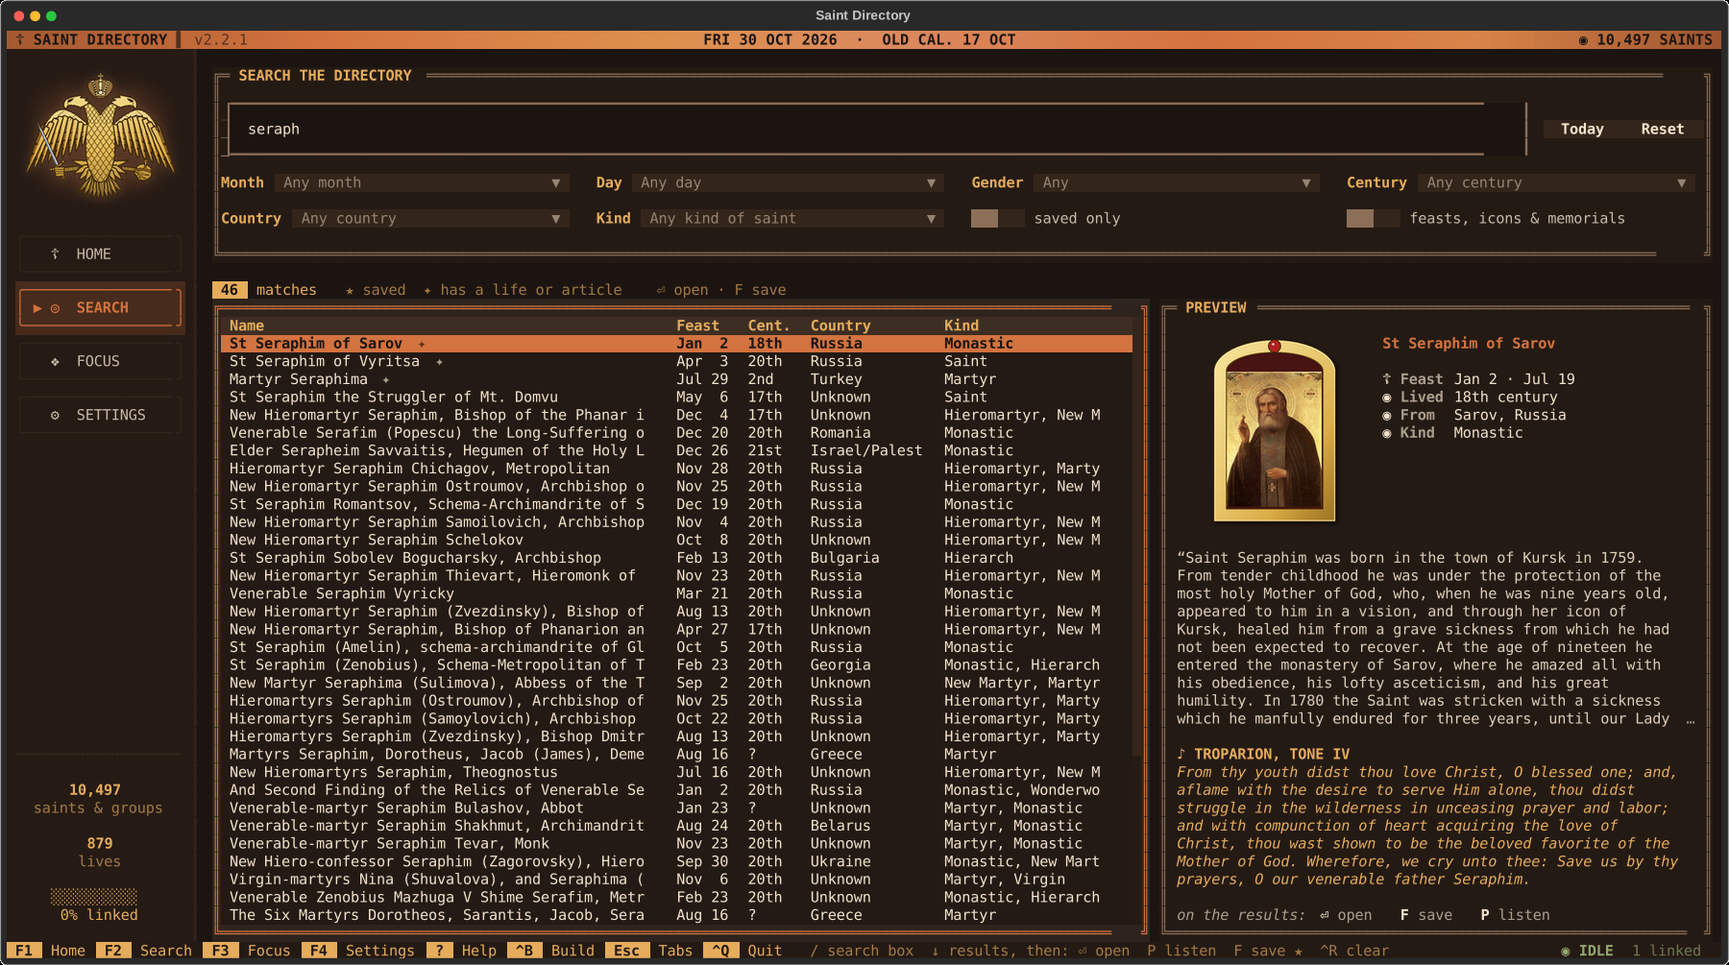
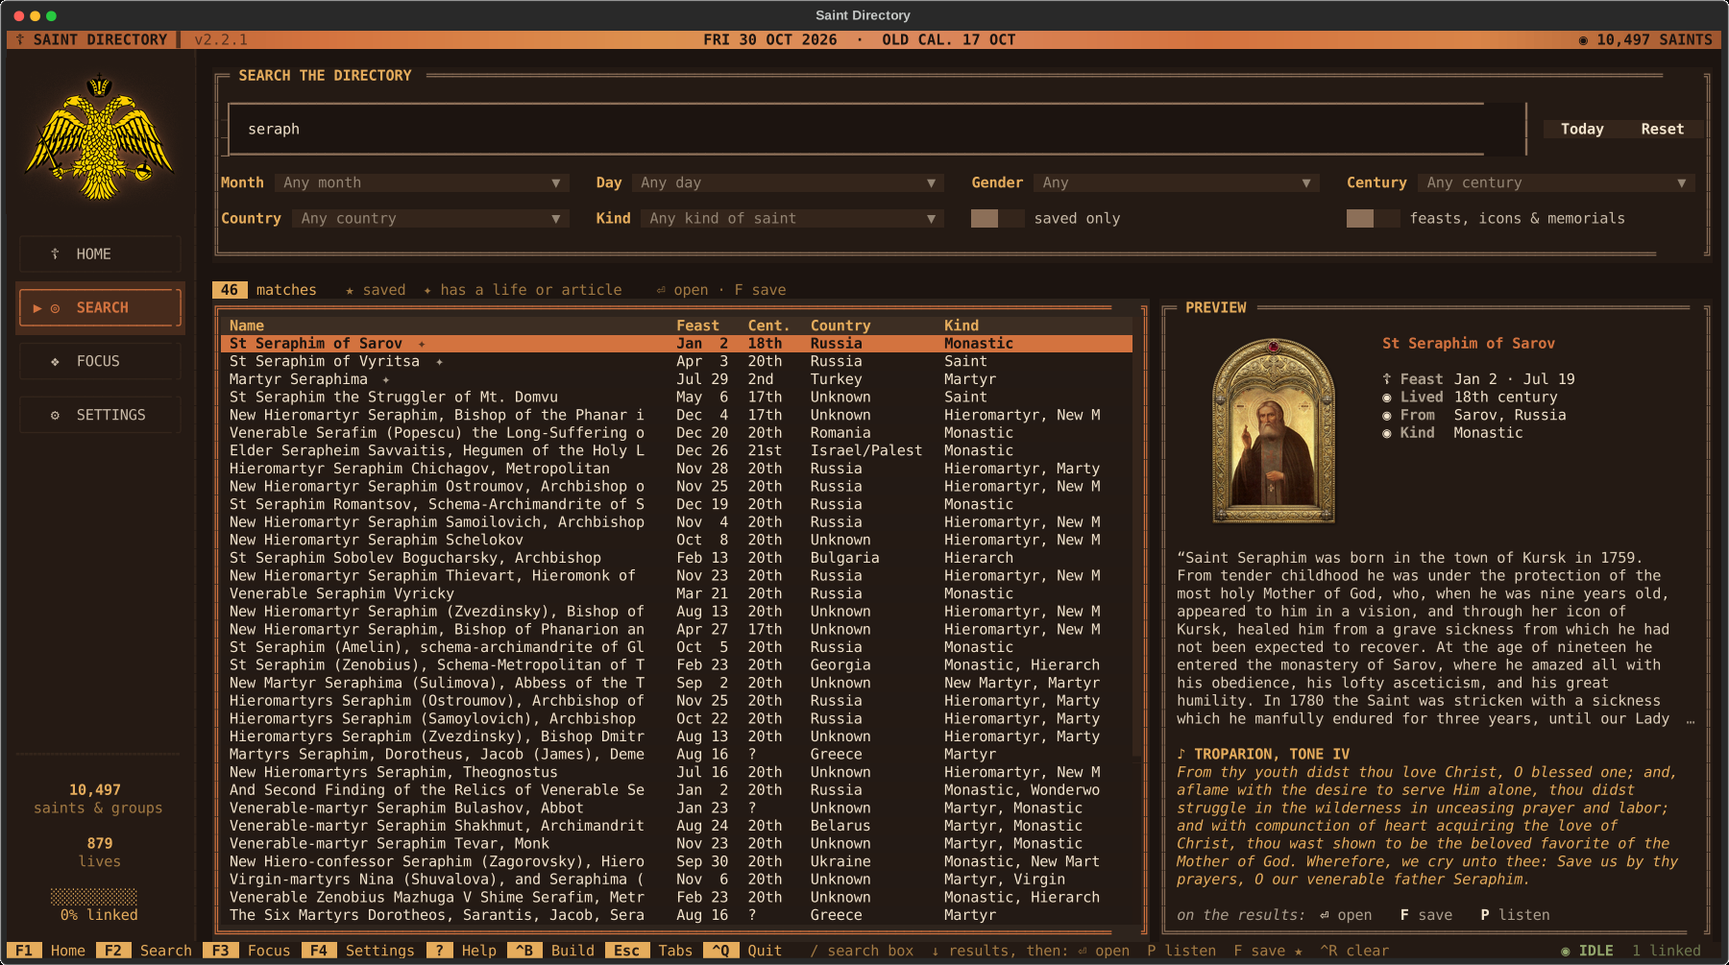
README for 2.3.1
- One "What's new" section for 2.3.1 (the eagle of the Church of Greece,
  the light behind it, the photographed kiot); the older ones are removed.
- What they described and is still true moved into the main sections:
  terminal detection, the typikon signs and vestment colour on Home, search
  in any alphabet, the Help glossary, the reading bar, merged duplicates.
- The Search, Reading aloud, Settings and colour-scheme screenshots show
  the new eagle and kiot.

Changed region(s): [[0.6844, 0.3393, 0.7778, 0.5552], [0.0, 0.0617, 0.1244, 0.2159]]

diff --git a/README.md b/README.md
@@ -7,7 +7,9 @@ like a page of the Synaxarion: the saint's **icon**, the **Life**, the **tropari
 from Wikipedia or OrthodoxWiki, feast days on the New and Old Calendars, and the saints who share them — and it can
 **read it all to you aloud**. Home is a full-screen **Church calendar dashboard**: the typikon sign of every day, the
 day's fast and readings with the Gospel's text, the saints, a saint of the day, and the feasts and fasts ahead.
-Everything is in English — Russian-calendar entries and non-English articles are translated.
+Everything is in English — Russian-calendar entries and non-English articles are translated. In terminals that show
+true images (Kitty, Ghostty and Sixel terminals) the icons stand in a gilded kiot and the double-headed eagle of the
+Church of Greece heads the tab column.
 
 ```
 F1 Home  F2 Search  F3 Focus  F4 Settings  P listen  ? Help  / search box  Esc tab column  ^B build  ^Q quit
@@ -27,129 +29,22 @@ All twelve colour schemes: [docs/themes.png](docs/themes.png)
 
 ## What's new in 2.3.1
 
-- **The eagle of the Church of Greece, as it is.** The eagle at the head of the tab column is now the eagle of the flag
-  of the Church of Greece itself (black lines on the flag's yellow, the crown above the two heads, the sword and the
-  orb), with only the flag's ground taken away, in place of the eagle drawn for 2.3. The light behind it is as in
-  2.3: it hugs the eagle's outline and breaks out between the wings, the heads and the crown when you switch tabs.
+- **The eagle of the Church of Greece.** In Kitty and Ghostty (and Sixel terminals) the double-headed eagle at the
+  head of the tab column is now the eagle of the flag of the Church of Greece, as it is drawn there: black lines on
+  the flag's yellow, the closed crown above the two heads, the **sword** in its right claw and the **orb with the
+  cross** in its left. Only the flag's ground is taken away.
+- **Truer light behind it.** When you switch tabs the light behind the eagle swells and fades like a flare. It comes
+  from behind the eagle, as from a lamp hung behind a carving: brightest right at its outline and falling away with
+  the distance, with shafts of light breaking out between the wings, the heads and the crown. It swells fast, fades
+  fast and then slowly, in sixteen steps; on the light scheme (Theophany) it is a tint of the scheme's colour.
   ![The pulse](docs/pulse.png)
-- **The kiot, as photographed.** Icons now stand in a photograph of a gilded kiot (the round arch with its vine and
-  beads, the three-bar cross under it, the ruby at the top and the silver rosettes) in place of the frame drawn for
-  2.3. For an icon of another shape only the straight part of the sides is made longer or shorter, so the arch, the
-  cross and the corners are never distorted; the icon fills the opening, and the frame casts its shadow on it. A
-  saint without a picture gets the painted icon blank in the same frame.
-
-## What's new in 2.3
-
-- **The double-headed eagle, redrawn.** The eagle at the head of the tab column now follows the eagle of the Church
-  of Greece closely: the closed imperial crown floating between the heads, with its dark lobes, pearled arches and
-  cross; the heads turned outward, with hooked beaks, a stern eye under a heavy brow and a crest swept back; scaled
-  necks and breast; the wings raised from the shoulders, a band of small coverts along the leading edge and long
-  flight feathers, shadowed and notched, sweeping down to the lower corners; skirts of pointed thigh feathers over
-  ringed legs, the **sword** in its right claw and the **orb with the cross** in its left; the tail spread in a fan.
-  It is cast in relief now, every feather and scale raised and catching the light from the upper left, in a richer
-  gold.
-- **Truer light behind it.** The light comes from behind the eagle, as from a lamp hung behind a carving: brightest
-  right at its outline and falling away with the distance, with shafts of light breaking out between the wings, the
-  heads and the crown, and a gleam along the eagle's edges at the height of a pulse. A pulse swells quickly and fades
-  the way a flare does, fast at first and then slowly, in sixteen steps instead of ten. On the light scheme
-  (Theophany) the light is a tint of the scheme's colour.
-- **A new frame for the icons.** Icons now stand in a gilded **kiot** cast in relief: a round arch over straight
-  sides; all round, a rounded rim, rows of beads and a band of running vine with its leaves, flowers and tendrils;
-  under the arch, the **three-bar cross** on a plate with trefoil ends between scrolls of vine; the head of the
-  opening cut in two arches that meet in a point under the cross; a **cabochon ruby** in a beaded, pierced setting at
-  the top; and **silver rosettes** where the arch springs from the sides and at the lower corners. The frame is made
-  to the shape of each icon (over a wide icon the arch is lowered), the icon fills the opening, and the frame casts
-  its shadow on it. A saint without a picture gets the painted icon blank in the same frame.
-
-## What's new in 2.2.1
-
-- The glow behind the double-headed eagle now pulses **only when you switch tabs** — Home, Search, Focus or
-  Settings, whether by F1–F4, the tab column, a click on a tab, **/**, or opening a saint (which takes you to
-  Focus) — and no longer at every choice you make in a page.
-
-## What's new in 2.2
-
-- **The double-headed eagle.** In Kitty and Ghostty (and Sixel terminals) a gilded **Byzantine double-headed eagle**
-  in the tradition of the Greek Orthodox Church now heads the tab column, drawn after the eagle of the Church of
-  Greece and Mount Athos: two heads turned outward with hooked beaks, the imperial crown floating above them, wings
-  arched at the shoulders with long feathers sweeping down, scaled neck and breast, the **sword** in its right claw
-  and the **orb with the cross** in its left. It is painted for the size of your window — larger on tall terminals.
-- **The light behind it pulses** when you switch tabs: the glow behind the eagle swells into an aureole of rays and
-  fades back. Every step of the light is sent to the terminal once, so the pulse costs nothing while you work.
-- **The three-bar cross found its place** above the prayers: it heads the column of hymns in Focus and the
-  troparion and kontakion in the icon view (**V**), like the headpiece of a page in a service book.
-- **Every control checked again** against what the screen says about it (the Help, the key lines, the buttons,
-  the dialogs), with new tests for the reading bar's buttons, the voice dialog, the icon view, the Scripture window
-  and the Settings voice buttons. Fixed along the way:
-  - "Lived 7th century · 7th century": when a source gives a date only as a century it is no longer repeated
-    ("born in the 7th century"), and it is read aloud as a sentence ("Died in the 7th century").
-  - The Focus welcome now lists **V** (the icon view); under the day's readings Home says "S opens them" (not
-    "S reads them", which sounded like reading aloud); the voice dialog and messages name the Settings panel by
-    its real title.
-  - Choosing a Piper voice to download could be undone by the voice scan finishing a moment later.
-  - A message from a background download arriving while saintd was closing could end it with an error.
-  - Opening Settings for the first time no longer re-applies its values: it could switch the pictures mode, show a
-    needless "Sixel needs a restart" note, or round a timeout or reading speed set in the settings file.
-  - Clicking **Contents** twice left the cursor on the button, so the arrow and page keys stopped scrolling.
-  - The saint of the day's **Listen** button now says **Pause** and **Resume** while it reads, like Focus's.
-  - The Search help and key lines say that **F** and **P** work on the results (in the search box they are
-    letters); "(press S for the text)" is no longer shown when the calendar has no text for a reading; the
-    "Clear article cache" button, which also clears the download cache, is now called **Clear caches**.
-
-## What was new in 2.1
-
-- **Reading aloud.** Press **P** and the saint's life, hymns and history are read to you, the paragraph being read
-  highlighted and kept in view. On Home, **P** reads the whole day: its feasts and fast, the saints, the saint of the
-  day and the Epistle and Gospel. **P** pauses and resumes, **X** stops, **,** and **.** skip back and forward a
-  paragraph, **+** and **-** change the speed; a bar above the status line shows what is read, how far, the voice
-  and the speed, with buttons for the mouse. Six engines: **Piper** (natural neural voices, offline — offered the
-  first time you listen), RHVoice, SVOX Pico, eSpeak NG, Speech Dispatcher and Festival. Choose the engine, the
-  voice and the speed in **Settings → Voice & Reading aloud**, download Piper voices there, or hear a test.
-- **Every screen fills the window.** Home is a three-column dashboard on big terminals: the calendar and the days
-  ahead (the coming week and the next feasts and fasts, with Pascha worked out locally); the day's saints as a table
-  with century and place; and the saint of the day — icon, facts, life and troparion — above the Gospel and Epistle
-  in full. Focus keeps the facts in the header card and puts the hymns, feast days, the saints who share them and the
-  sources in a column beside the life. Search shows a **preview** of the highlighted saint beside the results.
-  Settings is laid out in two columns.
-- **Made for Kitty and Ghostty.** Icons stand in a **gilded, arched frame** with a velvet arch and a jewel, like an
-  icon case; a saint without a picture gets a **painted icon blank** — gold leaf, a halo with the initial and the
-  name inscribed. A gilded **Orthodox cross** headed the tab column (since 2.2, the double-headed eagle), the title
-  bar is a band of burnished gold, and **V** opens the **icon view**: the icon as large as the window allows, with
-  the troparion and kontakion beside it.
-- **Five new colour schemes**: Paschal Night, Mount Athos, Blue Domes, Theophany (a light scheme) and
-  **Liturgical Colours**, which follows the Church year like the vestments do — gold on ordinary days, blue for the
-  Theotokos, purple for the Cross and Lent, black in Holy Week, red for Pascha and the martyrs, green for Pentecost,
-  white for the Nativity, Theophany and the Transfiguration. Home shows the day's colour too.
-- **Fixed:** resizing or maximising the window after saintd started kept the small-terminal layout (an icon-only
-  tab column, the narrow Home); the layout now follows the window at once.
-
-## What was new in 2.0
-
-- **Icons of the saints**, drawn as real pictures in **Kitty** and **Ghostty** (Kitty graphics protocol), in
-  **WezTerm, foot, Konsole** and other **Sixel** terminals, and as colour mosaics everywhere else.
-- **Knows its terminal.** saintd recognises the terminal *and its version* — from the environment and by asking the
-  terminal itself (XTVERSION, the Kitty graphics query, cell size and device attributes) — and picks the best
-  pictures it can really show: Kitty images need kitty 0.28+ or Ghostty 1.0+, Konsole's Sixel needs 22.04+, and inside
-  tmux or screen it falls back to colour blocks. `saintd --terminal` shows what it found.
-- **The Church calendar on Home**: a month view with the typikon sign of each day (⊕ great feast, ✠ vigil,
-  ✚ polyeleos, ≈ doxology, ∽ six stichera, • fast day), the day's tone, fast, feasts and Scripture readings —
-  press **S** to read the Epistle and Gospel themselves.
-- **Hymns**: the troparion and kontakion of the saint, with their tone.
-- **New sources**: the Orthodox Calendar of Holy Trinity Russian Orthodox Church (English lives by Fr. S. Janos, and
-  the hymns), **OrthodoxWiki** (history when Wikipedia has none) and **Wikimedia Commons** / Azbuka Very icons.
-- **Focus** has a header card with the icon and the essentials, **[ ]** steps through the list you came from, and
-  saints under *Also Commemorated* open with a click.
-- **Saved saints ★** — press **F** on a saint on Home, in Search or in Focus; Search can show only your saved
-  saints.
-- **A cleaner directory**: a saint kept by several calendars on the same day under different titles ("Martyr",
-  "Virgin-martyr", "Venerable-martyr Anastasia the Roman") becomes one entry, and Russian-calendar names read as
-  English ("Matrona of Thessalonica", "Xenia (Eusebia) of Mylasa", "Olga (Helen)").
-- **Search in any alphabet**: *Серафим* or *Σεραφείμ* finds St Seraphim; the wheel and **[ ]** in Focus go
-  through all the results, not only the first 200.
-- **Help** (**?**) with every key and a glossary of Orthodox terms (hieromartyr, troparion, typikon…) — [screenshot](docs/help.png).
-- **Faster and smoother**: about twice as fast to start, pages built when first needed (or while you are idle), the
-  calendar moves instantly while the day's details follow, and every source is read in parallel.
-- Every letter key works in either case, and Ctrl keys with or without Shift.
+- **A gilded kiot for the icons.** Icons now stand in a photographed gilded **kiot**, the case an icon stands in: a
+  round arch with its running vine and rows of beads, the **three-bar cross** under the arch, the head of the opening
+  cut in two arches that meet in a point under the cross, a **ruby** at the top and **silver rosettes** where the arch
+  springs from the sides and at the lower corners. The frame is made to the shape of each icon (only the straight
+  part of its sides grows or shrinks, so the arch, the cross and the corners are never distorted), the icon fills
+  the opening, and the frame casts its shadow on it. A saint without a picture gets the painted icon blank in the
+  same frame.
 
 ---
 
@@ -187,6 +82,9 @@ To uninstall: `pipx uninstall saint-directory` (and optionally
 
 ## Pictures in your terminal
 
+saintd recognises the terminal *and its version* (from the environment and by asking the terminal itself: XTVERSION,
+the Kitty graphics query, the cell size and the device attributes) and picks the best pictures it can really show:
+
 | Terminal | Pictures | Notes |
 |---|---|---|
 | **Kitty** 0.28+ | True images (Kitty graphics) | Best quality |
@@ -196,10 +94,16 @@ To uninstall: `pipx uninstall saint-directory` (and optionally
 | Inside tmux / screen | Colour-block mosaic | Multiplexers don't pass images on reliably |
 | Linux console | Off | An ornamental frame with the saint's initial |
 
-With true images (Kitty, Ghostty, Sixel) the icons stand in a gilded kiot (an arched frame cast in relief), saints
-without a picture get a painted icon blank, the gilded double-headed eagle heads the tab column — in Kitty and Ghostty
-the light behind it pulses when you switch tabs — the three-bar cross stands above the hymns, and **V** in Focus shows
-the icon as large as the window allows.
+With true images (Kitty, Ghostty, Sixel) the icons stand in a **gilded kiot** made to the shape of each icon, and a
+saint without a picture gets a **painted icon blank**: gold leaf, a halo with the initial, and the name inscribed.
+The three-bar cross heads the hymns in Focus and the troparion and kontakion in the icon view, like the headpiece of
+a page in a service book. **V** in Focus (or a click on the icon) shows the icon as large as the window allows, with
+the troparion and kontakion beside it.
+
+The **double-headed eagle** of the Church of Greece heads the tab column, painted for the size of your window (larger
+on tall terminals). In Kitty and Ghostty the light behind it pulses when you switch tabs (by **F1–F4**, the tab
+column, a click on a tab, **/**, or opening a saint, which takes you to Focus) and at nothing else; every step of the
+light is sent to the terminal once, so the pulse costs nothing while you work.
 
 You can choose yourself in **Settings → Display & Pictures** (Automatic, Kitty, Sixel, Colour blocks or Off), or for
 one run with `SAINTD_GRAPHICS=blocks saintd`. Icons are downloaded only when you open a saint (or it is Saint of the
@@ -216,7 +120,8 @@ saintd --terminal      # what saintd knows about this terminal
 Press **P**: in **Focus** the saint is read (name and facts, the life, the troparion and kontakion, then the
 calendar notes and the history); on **Home** the day is read (its date and feasts, the fast, the saints, the saint
 of the day, and the Epistle and Gospel); in **Search** the highlighted saint. The reading goes on while you move to
-other tabs.
+other tabs. The paragraph being read is highlighted and kept in view, and a bar above the status line shows what is
+being read, how far it has got, the voice and the speed, with buttons for the mouse.
 
 | Key | |
 |---|---|
@@ -262,20 +167,21 @@ own keys (T, N, [ ], …) also work while the cursor is on the tab column.
 
 | Tab | What it shows |
 |---|---|
-| **Home** | The Church calendar (with the Old Calendar date), the day's feasts, tone, fast, season and Scripture readings; the week ahead and the next feasts and fasts; the saints commemorated that day (century, place, ✦ life, ♪ hymns); a Saint of the Day with an icon, facts, the Life and the troparion; and the Gospel and Epistle in full. |
-| **Search** | Type a name or part of one (spelling variants match: *athanasios* finds *Athanasius*, *cyril* finds *Kirill*). Filter by feast month/day, gender, century, country and kind of saint (Martyr, Hieromartyr, Monastic, Hierarch, Royal, Fool-for-Christ, Unmercenary…), or show only your saved saints. ✦ marks saints with a Life or article, ★ your saved ones. On wide terminals a preview of the highlighted saint stands beside the results. |
-| **Focus** | One saint: a header card with the icon and every fact (feast days, Old Calendar date, dates, place, kind, sources); then the Life (from the Synaxarion, the Holy Trinity calendar, the Mystagogy Resource Center or Azbuka Very), the Hymns, the History (Wikipedia or OrthodoxWiki, translated if needed), the commemorations, the saints who share the day, and every source with its licence — on wide terminals the hymns, feast days and sources stand in a column beside the life. |
+| **Home** | The Church calendar: a month with the typikon sign of every day (⊕ great feast, ✠ vigil, ✚ polyeleos, ≈ doxology, ∽ six stichera, • fast day) and the Old Calendar date; the day's feasts, tone, fast, season, vestment colour and Scripture readings; the week ahead and the next feasts and fasts (Pascha is worked out on your computer); the saints commemorated that day (century, place, ✦ life, ♪ hymns); a Saint of the Day with an icon, facts, the Life and the troparion; and the Gospel and Epistle in full. On big terminals it is a three-column dashboard. |
+| **Search** | Type a name or part of one, in any alphabet (*Серафим* or *Σεραφείμ* finds St Seraphim; spelling variants match: *athanasios* finds *Athanasius*, *cyril* finds *Kirill*). Filter by feast month/day, gender, century, country and kind of saint (Martyr, Hieromartyr, Monastic, Hierarch, Royal, Fool-for-Christ, Unmercenary…), or show only your saved saints. ✦ marks saints with a Life or article, ★ your saved ones. On wide terminals a preview of the highlighted saint stands beside the results; in Focus, **[ ]** steps through all of them. |
+| **Focus** | One saint: a header card with the icon and every fact (feast days, Old Calendar date, dates, place, kind, sources); then the Life (from the Synaxarion, the Holy Trinity calendar, the Mystagogy Resource Center or Azbuka Very), the Hymns, the History (Wikipedia or OrthodoxWiki, translated if needed), the commemorations, the saints who share the day (click one to open it), and every source with its licence — on wide terminals the hymns, feast days and sources stand in a column beside the life. |
 | **Settings** | Colour scheme and symbols, pictures, voice & reading aloud, New/Old Calendar, which sources to use, translator, network contact and timeout, directory maintenance (build, link, pause, retry, clear caches, delete) and information about every source. |
 
 ## Keys
 
-Letter keys work in either case. The mouse works too: click tabs, buttons, days and saints, scroll with the wheel.
+Letter keys work in either case, and Ctrl keys with or without Shift. The mouse works too: click tabs, buttons, days
+and saints, scroll with the wheel.
 
 | Everywhere | |
 |---|---|
 | **F1 F2 F3 F4** | Home, Search, Focus, Settings |
 | **/** | Jump to the search box |
-| **?** | Help (press **?**, **Esc** or **Q** to close) |
+| **?** | Help: every key, and a glossary of Orthodox terms (hieromartyr, troparion, typikon…); **?**, **Esc** or **Q** closes it — [screenshot](docs/help.png) |
 | **Esc** | Put the cursor on the tab column |
 | **Ctrl+B** | Build or update the directory |
 | **Ctrl+Q** | Quit |
@@ -335,7 +241,7 @@ above work.
 | **Mount Athos** | monastic black, beeswax, olive groves and the Aegean |
 | **Blue Domes** | the starry blue domes and gold stars of the Lavra, with brick |
 | **Theophany** (light) | white garments, Jordan blue and gold, on ivory |
-| **Liturgical Colours** | changes with the Church year like the vestments (after Russian use; customs differ): gold, blue, purple, green, white, red or black |
+| **Liturgical Colours** | changes with the Church year like the vestments (after Russian use; customs differ): gold, blue, purple, green, white, red or black; Home shows the day's colour |
 
 Themes use 24-bit colour, which most terminals support. If your font lacks symbols such as ☦ or ⚙, choose
 **Plain ASCII** symbols in Settings. The layout adapts from 80×24 up; on small terminals the tab column shows icons
@@ -345,7 +251,9 @@ only.
 
 ## Where the information comes from
 
-No API keys and no subscriptions are needed.
+No API keys and no subscriptions are needed. A saint kept by several calendars on the same day under different titles
+("Martyr", "Virgin-martyr", "Venerable-martyr Anastasia the Roman") becomes one entry, and Russian-calendar names
+read as English ("Matrona of Thessalonica", "Xenia (Eusebia) of Mylasa", "Olga (Helen)").
 
 | Source | Language | Used for | Terms |
 |---|---|---|---|
@@ -456,8 +364,9 @@ saintd
 The code is in `saintd/`: `sources.py` (API clients), `sync.py` (building and Wikidata linking), `wikical.py`
 (Wikipedia's Orthodox calendar pages), `lives.py` (Mystagogy and Azbuka Very lives), `htc.py` (the Holy Trinity
 calendar), `owiki.py` (OrthodoxWiki), `icons.py` (finding and caching icons), `term.py` (terminal detection),
-`graphics.py` (Kitty, Sixel and colour-block pictures, the eagle's pulse), `art.py` (the gilded frames, icon
-blanks and the cross headpiece), `eagle.py` (the double-headed eagle and its steps of light),
+`graphics.py` (Kitty, Sixel and colour-block pictures, the eagle's pulse), `art.py` (the kiot, icon blanks and
+the cross headpiece), `eagle.py` (the double-headed eagle and its steps of light), `assets/` (the pictures of the
+eagle and the kiot),
 `themes.py` (colour schemes and liturgical colours), `paschalion.py` (Pascha, feasts and fasts), `tts.py` (reading
 aloud: engines, voices, players and the reader), `piper_worker.py` (Piper in its own process), `narration.py` (what is
 read), `ru.py` (Russian → English), `heuristics.py` (titles → facts), `article.py` (the Focus article),
